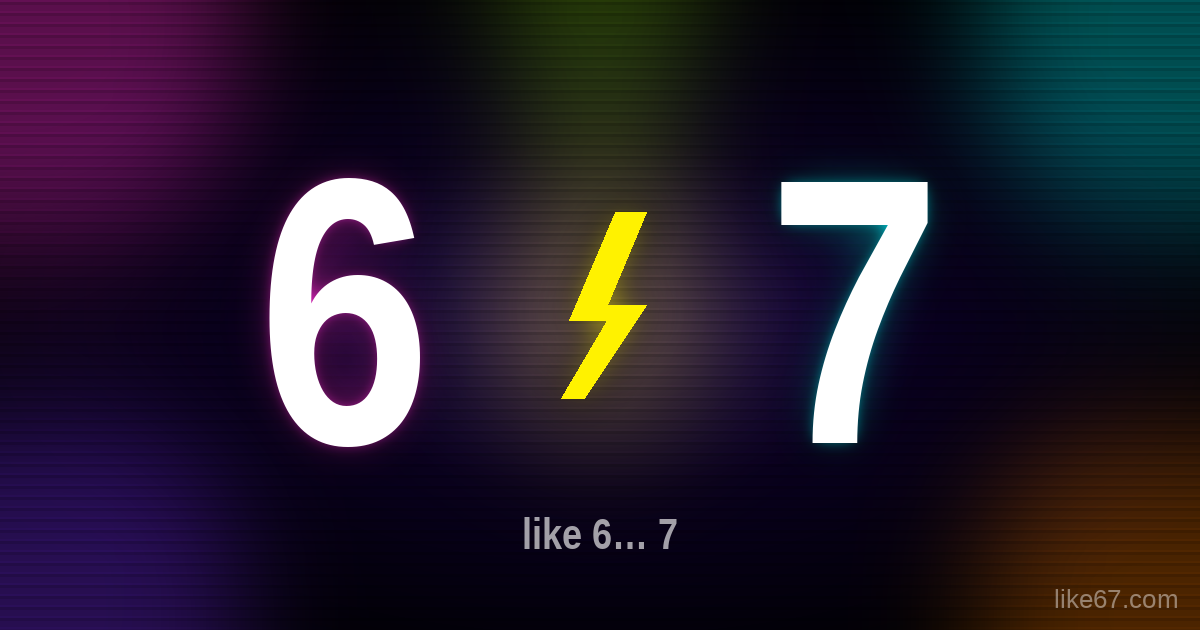
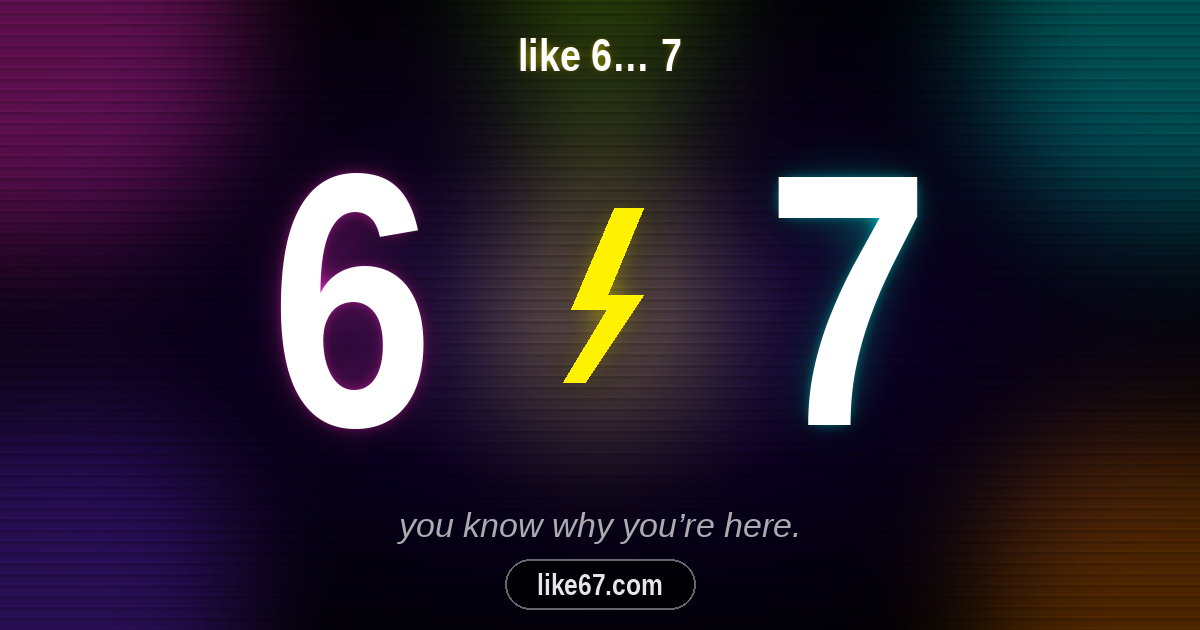
Session 011 rev: OG image headline/CTA, expand meta title+description

diff --git a/index.html b/index.html
@@ -4,16 +4,16 @@
   <meta charset="UTF-8" />
   <meta name="viewport" content="width=device-width, initial-scale=1.0, viewport-fit=cover" />
   <title>like 6… 7</title>
-  <meta name="description" content="The six seven page. You know why you're here." />
-  <meta property="og:title" content="like 6… 7" />
-  <meta property="og:description" content="The six seven page. You know why you're here." />
+  <meta name="description" content="The six seven page. When someone says 'like 6... 7' — this is the page you pull up. You know exactly why you're here." />
+  <meta property="og:title" content="like 6… 7 · you know why you're here" />
+  <meta property="og:description" content="The six seven page. When someone says 'like 6... 7' — this is the page you pull up. You know exactly why you're here." />
   <meta property="og:url" content="https://like67.com" />
   <meta property="og:type" content="website" />
   <meta property="og:image" content="https://like67.com/assets/og-image.png" />
   <meta property="og:image:width" content="1200" />
   <meta property="og:image:height" content="630" />
   <meta name="twitter:card" content="summary_large_image" />
-  <meta name="twitter:title" content="like 6… 7" />
+  <meta name="twitter:title" content="like 6… 7 · you know why you're here" />
   <meta name="twitter:image" content="https://like67.com/assets/og-image.png" />
   <meta name="theme-color" content="#000000" />
   <link rel="manifest" href="/manifest.json" />

diff --git a/sessions/011-og-image-and-hint-polish.md b/sessions/011-og-image-and-hint-polish.md
@@ -45,6 +45,21 @@ Updated `index.html`:
 
 Bumped resting `color` on `.corner-link`, `.fs-hint`, and `.home-hint` from `rgba(255,255,255,0.3)` to `rgba(255,255,255,0.5)`. Hover on `.corner-link` stays at `0.85`. The labels are now legible at a glance without dominating the animation.
 
+### 5. OG image and meta revision (after opengraph.xyz check)
+
+> [opengraph.xyz feedback] The OG Image URL appears to be invalid or unreachable · Missing a clear headline in your image · Missing a call-to-action in your image · Title is short (9 characters) · Description is short (45 chars)
+
+**URL error** — expected: the image lives at `like67.com/assets/og-image.png` but hadn't been merged to `main` yet. Not a code bug; merge and it resolves.
+
+**Title and description** — expanded both to hit recommended ranges:
+- `og:title` / `twitter:title`: `like 6… 7 · you know why you're here` (~38 chars, punchy)
+- `og:description` / `meta description`: `The six seven page. When someone says 'like 6... 7' — this is the page you pull up. You know exactly why you're here.` (~120 chars)
+
+**Image — headline and CTA** — regenerated `og-image.png` with three new text layers:
+- **Top headline**: `like 6… 7` in 46pt bold with yellow glow — gives scrapers a readable site name.
+- **Tagline**: `you know why you're here.` in italic below the numbers, 34pt, 67% opacity.
+- **CTA pill**: `like67.com` in a rounded dark pill with a white border at the bottom centre — satisfies the call-to-action check and is clearly the destination URL.
+
 ---
 
 ## Files touched
